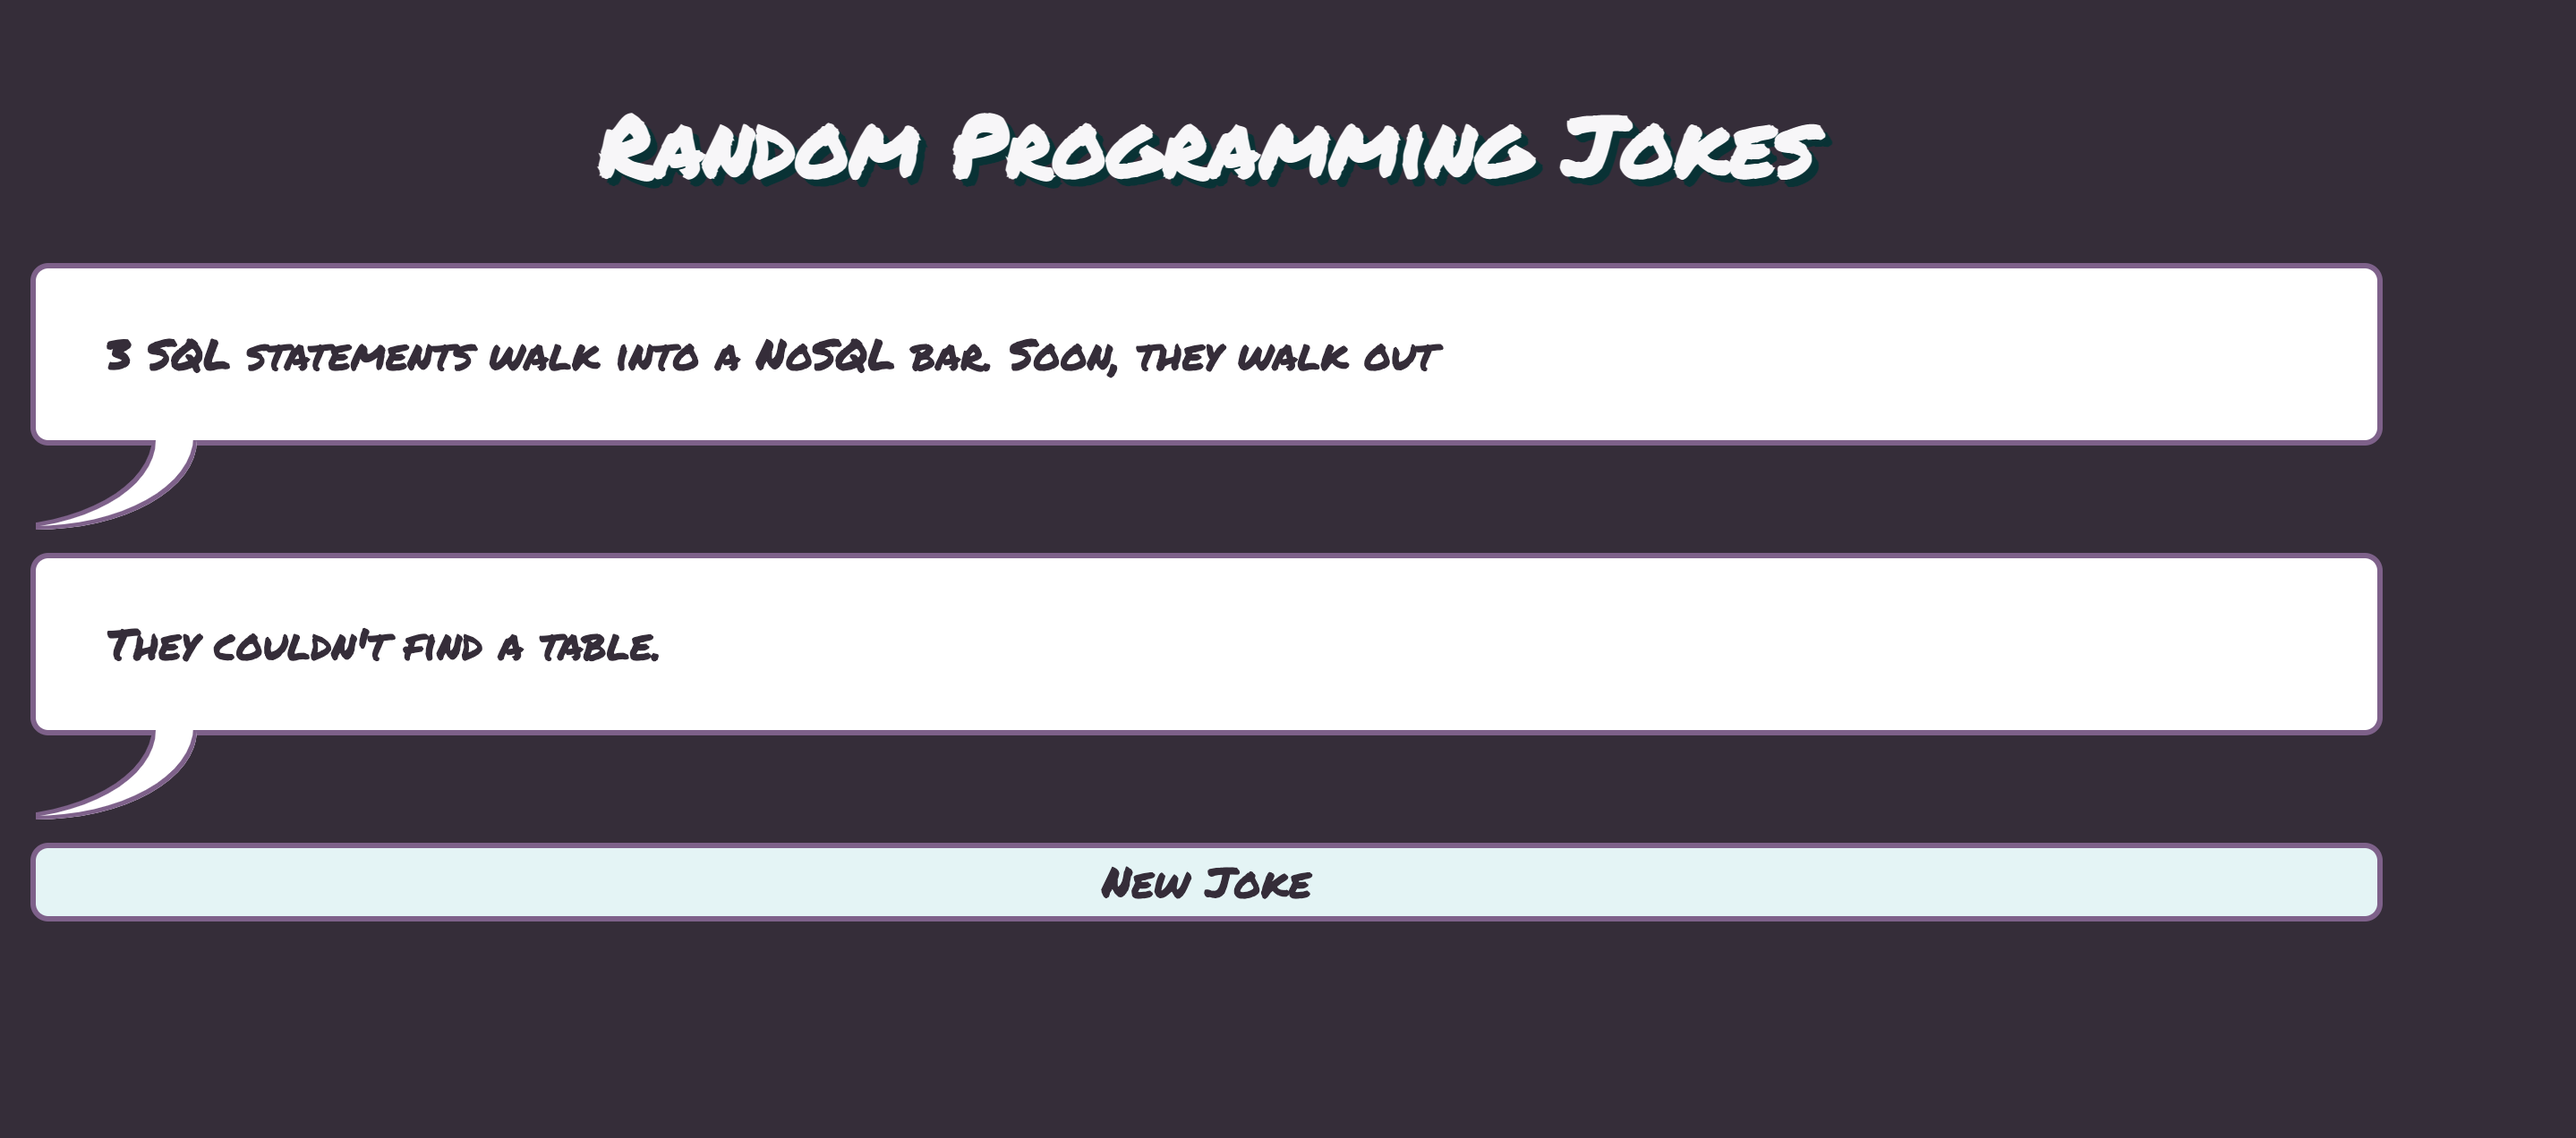
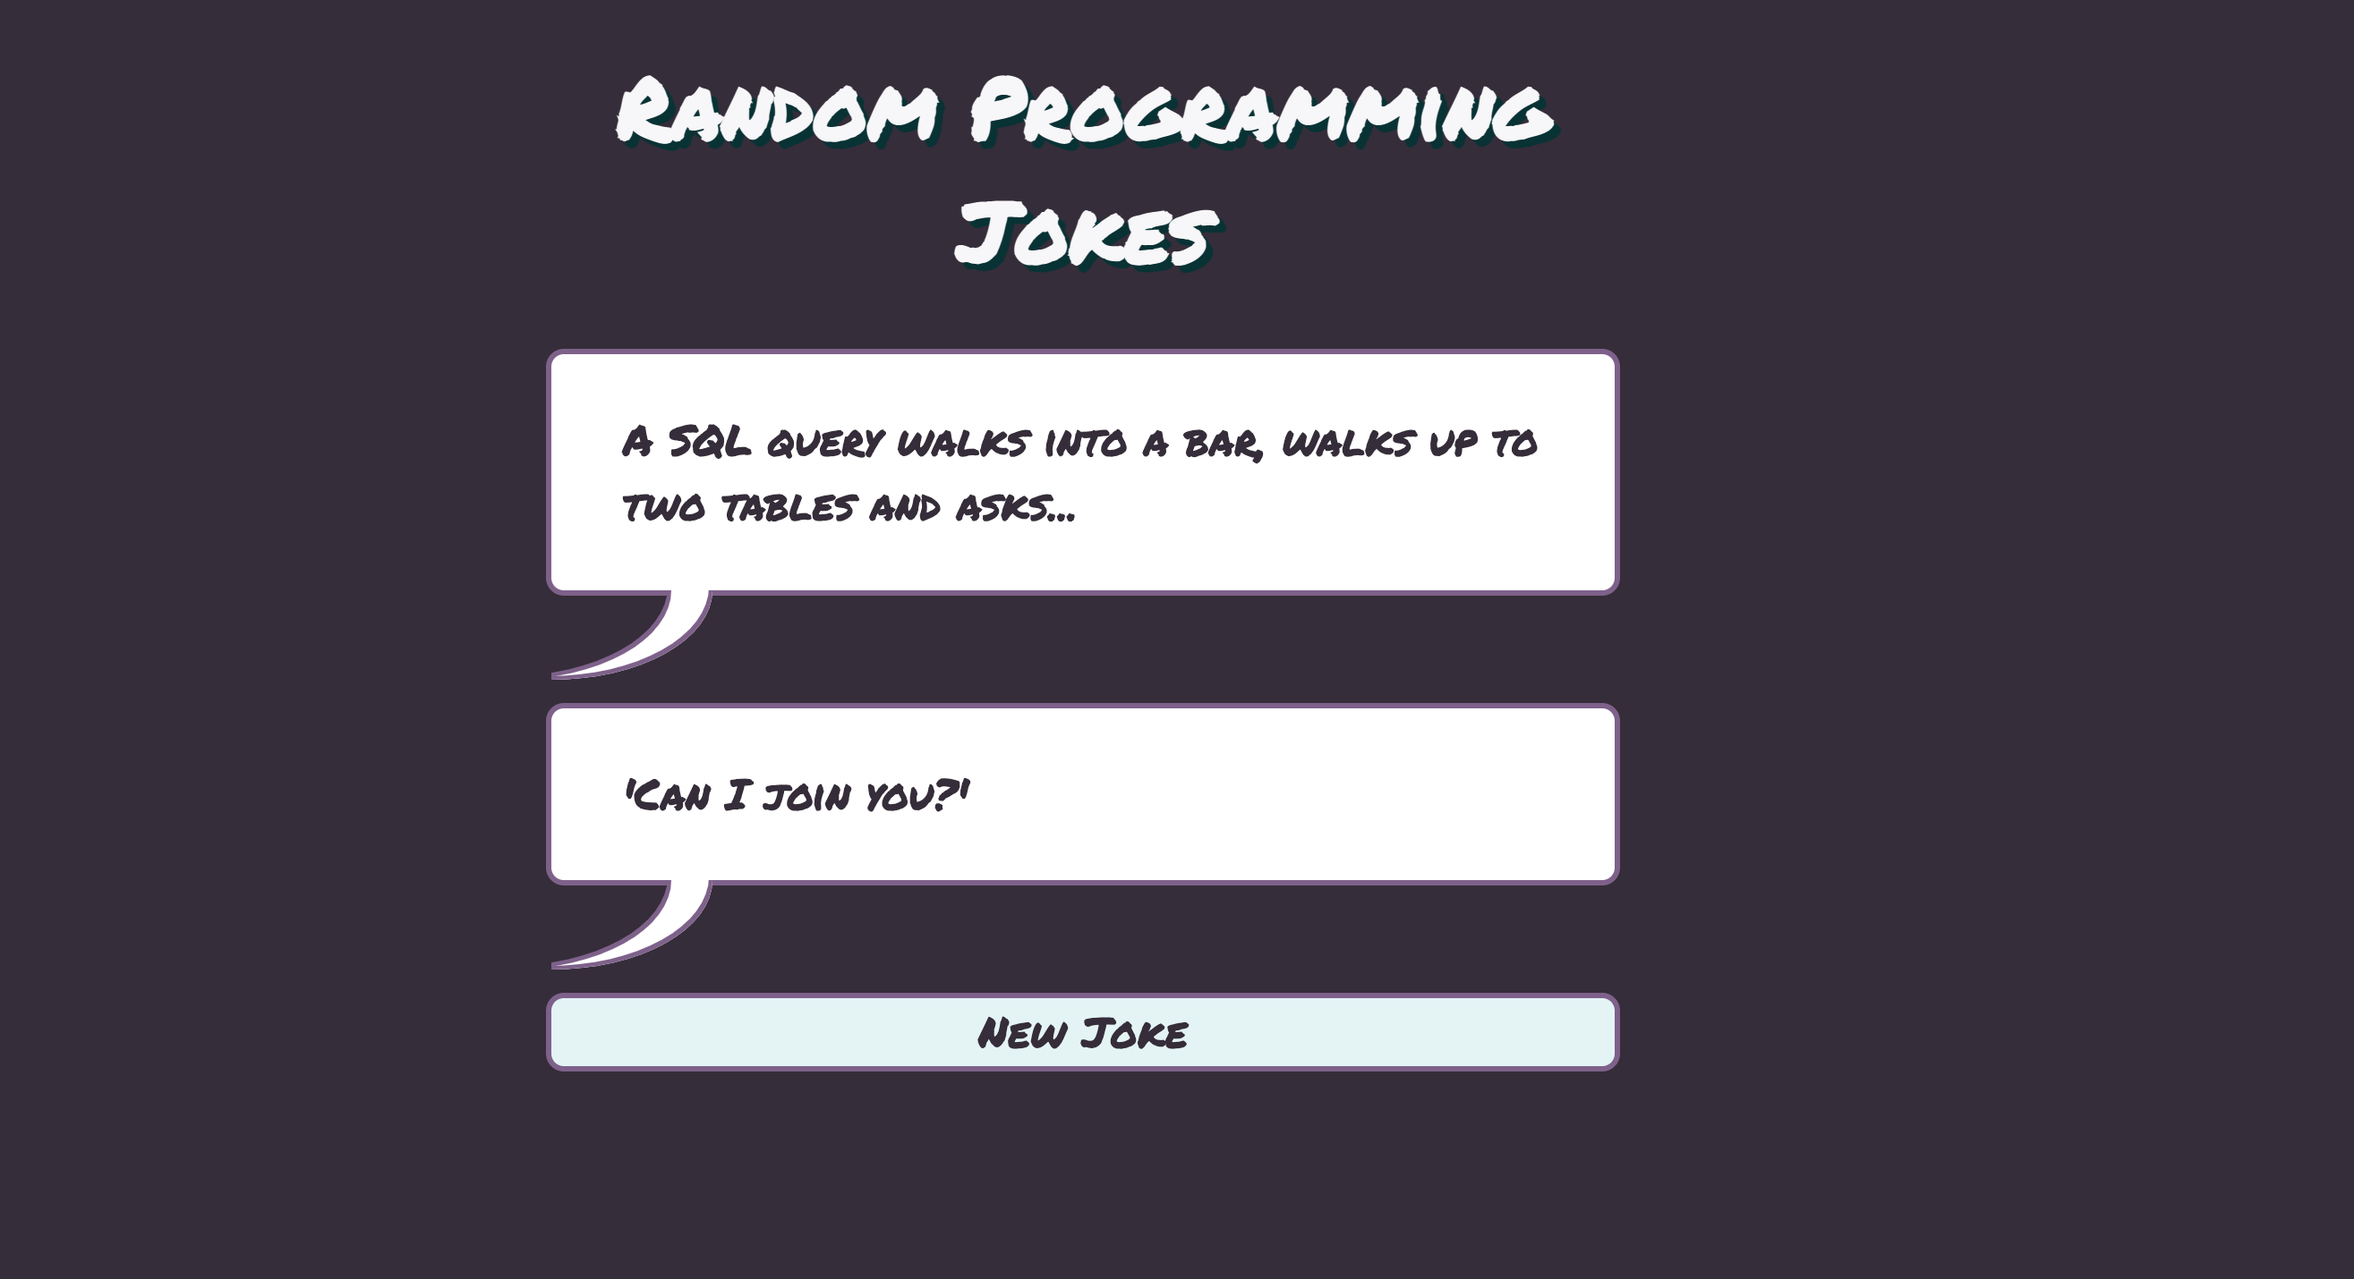
changed picture

diff --git a/styles.css b/styles.css
@@ -6,6 +6,9 @@ body {
   font-size: 1.5rem;
   padding: 10px 100px 10px 10px;
   color: #352d39;
+  margin: 0 auto;
+  width: 600px;
+  min-width: 400px;
 }
 
 h1 {
